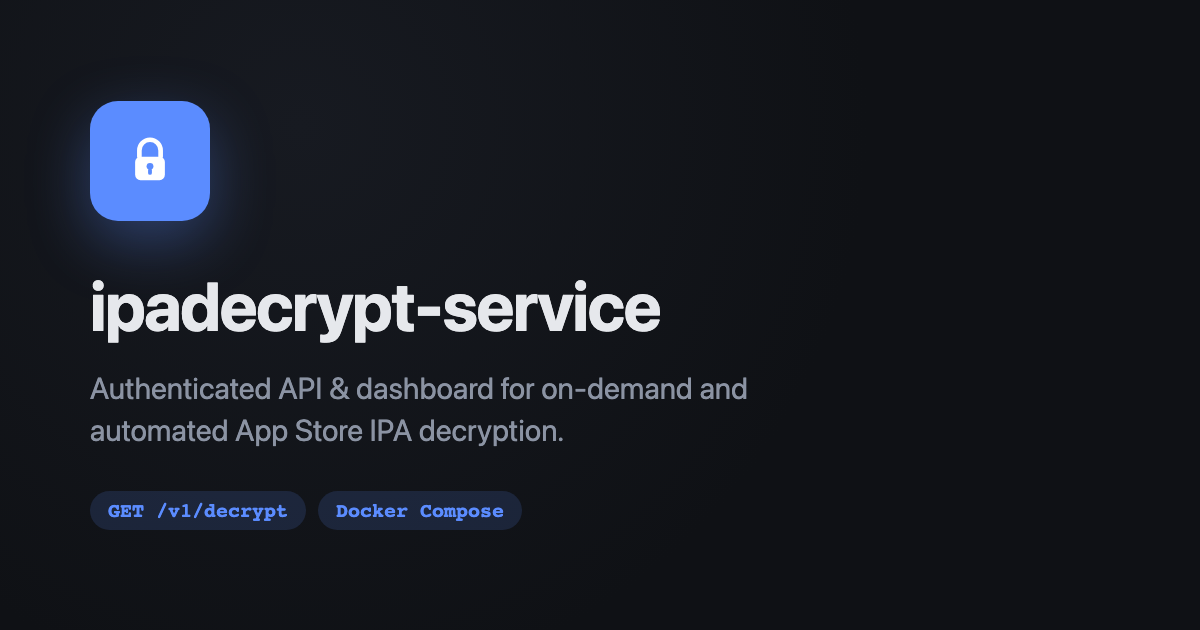
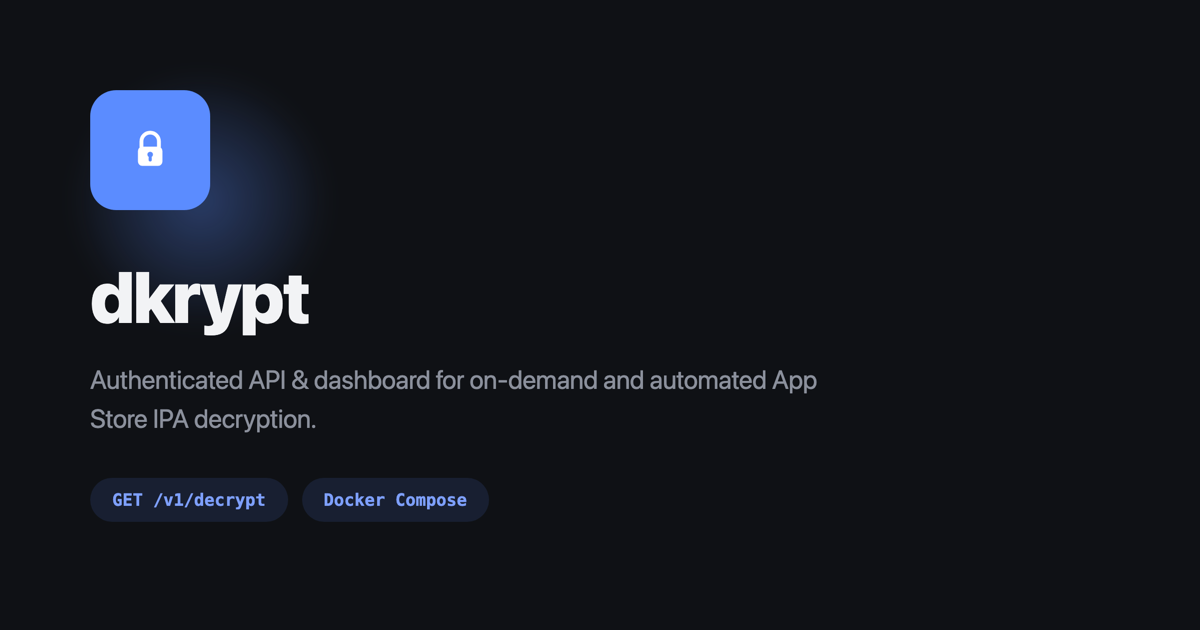
fix: launch TestFlight via tfauto bridge, rebrand OG image, dashboard polish
- testflight.ts: launch through tfauto's SpringBoard-side bridge instead
  of uiopen, which silently fails once the display is off.
- Regenerate og-image.png with dkrypt branding (was still the old
  ipadecrypt-service asset) and drop the duplicate og:site_name tag.
- Remove the redundant search button (the input already live-searches).
- Fix the webhook Test button's height mismatch against its input.

Changed region(s): [[0.0617, 0.1206, 0.555, 0.5429], [0.0617, 0.573, 0.6783, 0.7238], [0.0617, 0.754, 0.4317, 0.8444]]

diff --git a/api/src/testflight.ts b/api/src/testflight.ts
@@ -7,6 +7,8 @@ const log = scopedLogger('testflight');
 
 const REQUEST_PATH = '/tmp/tfauto-request.json';
 const RESPONSE_PATH = '/tmp/tfauto-response.json';
+const SB_REQUEST_PATH = '/tmp/tfauto-sb-request.json';
+const SB_RESPONSE_PATH = '/tmp/tfauto-sb-response.json';
 
 interface DeviceAuth {
   host: string;
@@ -108,7 +110,10 @@ async function isTestFlightRunning(conn: Client): Promise<boolean> {
 }
 
 async function launchTestFlight(conn: Client): Promise<void> {
-  await execCommand(conn, 'uiopen --bundleid com.apple.TestFlight');
+  const response = await sendBridgeRequestRawTo(conn, SB_REQUEST_PATH, SB_RESPONSE_PATH, { action: 'launch_app', bundleId: 'com.apple.TestFlight' });
+  if (response?.launchResult !== 0) {
+    throw new Error(`tfauto SpringBoard launch_app failed: ${JSON.stringify(response)}`);
+  }
 }
 
 async function waitForBridgeReady(conn: Client, timeoutMs = 20_000): Promise<void> {
@@ -129,20 +134,26 @@ export async function ensureTestFlightRunning(): Promise<void> {
       log.info('TestFlight already running');
       return;
     }
-    log.info('launching TestFlight autonomously via uiopen');
+    log.info('launching TestFlight autonomously via tfauto SpringBoard bridge');
     await launchTestFlight(conn);
     await new Promise((r) => setTimeout(r, 3_000));
     await waitForBridgeReady(conn);
   });
 }
 
-async function sendBridgeRequestRaw(conn: Client, request: Record<string, unknown>, timeoutMs = 20_000): Promise<any> {
-  await execCommand(conn, `rm -f ${RESPONSE_PATH}`);
-  await writeRemoteFile(conn, REQUEST_PATH, JSON.stringify(request));
+async function sendBridgeRequestRawTo(
+  conn: Client,
+  requestPath: string,
+  responsePath: string,
+  request: Record<string, unknown>,
+  timeoutMs = 20_000,
+): Promise<any> {
+  await execCommand(conn, `rm -f ${responsePath}`);
+  await writeRemoteFile(conn, requestPath, JSON.stringify(request));
 
   const deadline = Date.now() + timeoutMs;
   while (Date.now() < deadline) {
-    const raw = await readRemoteFileIfExists(conn, RESPONSE_PATH);
+    const raw = await readRemoteFileIfExists(conn, responsePath);
     if (raw) {
       const parsed = JSON.parse(raw);
       if (parsed.ok === false) throw new Error(`tfauto bridge error: ${parsed.error}`);
@@ -151,6 +162,10 @@ async function sendBridgeRequestRaw(conn: Client, request: Record<string, unknow
     await new Promise((r) => setTimeout(r, 500));
   }
   throw new Error(`tfauto bridge request timed out: ${JSON.stringify(request)}`);
+}
+
+function sendBridgeRequestRaw(conn: Client, request: Record<string, unknown>, timeoutMs = 20_000): Promise<any> {
+  return sendBridgeRequestRawTo(conn, REQUEST_PATH, RESPONSE_PATH, request, timeoutMs);
 }
 
 export interface TFTrain {

diff --git a/api/web/src/tabs/home/DecryptPanel.svelte b/api/web/src/tabs/home/DecryptPanel.svelte
@@ -1,5 +1,5 @@
 <script lang="ts">
-  import { FlaskConical, History, Search } from 'lucide-svelte';
+  import { FlaskConical, History } from 'lucide-svelte';
   import { queueDecrypt, queueTestFlightDecrypt, searchApps, type AppStoreSearchResult, type TFBuild } from '../../lib/api';
   import Badge from '../../lib/components/ui/Badge.svelte';
   import Button from '../../lib/components/ui/Button.svelte';
@@ -151,19 +151,13 @@
 </script>
 
 <Card title="Decrypt an app">
-  <div class="flex gap-2">
-    <Input
-      bind:ref={inputEl}
-      bind:value={term}
-      oninput={onInput}
-      onkeydown={onKeydown}
-      placeholder="Search the App Store to decrypt… (press / to focus)"
-    />
-    <Button onclick={() => runSearch(term)}>
-      <Search class="h-4 w-4" />
-      Search
-    </Button>
-  </div>
+  <Input
+    bind:ref={inputEl}
+    bind:value={term}
+    oninput={onInput}
+    onkeydown={onKeydown}
+    placeholder="Search the App Store to decrypt… (press / to focus)"
+  />
 
   {#if !term.trim() && recentBundleIdsState.items.length > 0}
     <div class="mt-2.5 flex flex-wrap gap-1.5">

diff --git a/api/web/src/tabs/settings/SchedulerSettings.svelte b/api/web/src/tabs/settings/SchedulerSettings.svelte
@@ -130,7 +130,7 @@
   <label for="s-notifyWebhookUrl" class="mt-3 mb-1 block text-xs text-muted">Notification webhook URL (Discord-compatible, optional)</label>
   <div class="flex gap-2">
     <Input id="s-notifyWebhookUrl" bind:value={form.notifyWebhookUrl} />
-    <Button variant="secondary" size="sm" disabled={testingWebhook} onclick={runTestWebhook}>Test</Button>
+    <Button variant="secondary" disabled={testingWebhook} onclick={runTestWebhook}>Test</Button>
   </div>
 
   <div class="mt-4 flex flex-wrap gap-2">

diff --git a/api/web/index.html b/api/web/index.html
@@ -11,7 +11,6 @@
 <meta name="theme-color" content="#0f1115" />
 
 <meta property="og:type" content="website" />
-<meta property="og:site_name" content="dkrypt" />
 <meta property="og:title" content="dkrypt" />
 <meta property="og:description" content="Authenticated API and dashboard for on-demand and automated App Store IPA decryption." />
 <meta property="og:image" content="__PUBLIC_BASE_URL__/og-image.png" />